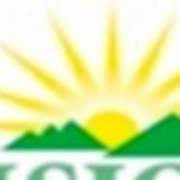
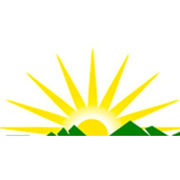
Apply Smita's feedback: combined impact numbers, Who we are and Fundraisers pages
- Home and newsletter totals now combine Kutumb and NIPUN, with the split shown
- 'Donation' instead of 'gift'; children join Kutumb at three
- New Who we are page (mission, story, board) and Fundraisers page
- Newsletter archive and fundraiser photos list themselves from public/
- New high-resolution logo and favicon; nav wraps to two rows on phones

Claude-Session: https://claude.ai/code/session_01BCyXnN6AfJUBevpe67KkuN

diff --git a/src/styles/global.css b/src/styles/global.css
@@ -40,13 +40,13 @@ p { margin: 0 0 14px; }
 .skip:focus { left: 12px; top: 12px; z-index: 50; background: var(--white); padding: 10px 14px; }
 
 /* Header */
-.top { position: sticky; top: 0; z-index: 20; background: var(--white); border-bottom: 1px solid var(--line); }
+.top { position: relative; z-index: 20; background: var(--white); border-bottom: 1px solid var(--line); }
 .top-in { display: flex; justify-content: space-between; align-items: center; padding-top: 10px; padding-bottom: 4px; }
 .logo { line-height: 0; }
-.logo img { height: 46px; width: auto; }
-.tabs { display: flex; gap: 2px; overflow-x: auto; scrollbar-width: none; }
-.tabs::-webkit-scrollbar { display: none; }
-.tab { font-size: 15px; color: var(--muted); padding: 10px 12px; min-height: 44px; display: inline-flex; align-items: center; white-space: nowrap; text-decoration: none; border-bottom: 3px solid transparent; }
+.logo img { height: 54px; width: auto; }
+/* On phones all six tabs wrap onto two rows so none are hidden off-screen. */
+.tabs { display: flex; flex-wrap: wrap; gap: 0 2px; }
+.tab { font-size: 15px; color: var(--muted); padding: 10px 10px; min-height: 44px; display: inline-flex; align-items: center; white-space: nowrap; text-decoration: none; border-bottom: 3px solid transparent; }
 .tab[aria-current='page'] { color: var(--forest); font-weight: 700; border-bottom-color: var(--leaf); }
 
 /* Buttons */
@@ -94,6 +94,7 @@ p { margin: 0 0 14px; }
 .stat { display: flex; flex-direction: column; padding: 16px 0; border-top: 2px solid var(--line); }
 .num { font-family: var(--display); font-size: 46px; line-height: 1; font-weight: 800; color: var(--leaf); letter-spacing: -0.02em; }
 .lbl { margin-top: 6px; }
+.src { margin-top: 2px; font-size: 14px; color: var(--muted); }
 .stats.compact .num { font-size: 36px; }
 
 /* Partner teasers on Home */
@@ -148,12 +149,14 @@ p { margin: 0 0 14px; }
 /* Footer */
 .foot { background: var(--forest); color: #E7F2EA; padding: 44px 0; font-size: 15px; }
 .foot a { color: #E7F2EA; }
-.foot img { height: 44px; width: auto; background: var(--white); padding: 6px; border-radius: 6px; margin-bottom: 8px; }
+.foot img { height: 64px; width: auto; background: var(--white); padding: 8px; border-radius: 8px; margin-bottom: 8px; }
 .foot p { margin: 8px 0; }
 .foot-grid { display: grid; gap: 18px; }
 
 @media (min-width: 900px) {
   body { font-size: 18px; }
+  .top { position: sticky; top: 0; }
+  .tabs { flex-wrap: nowrap; }
   .hero { padding: 40px 0 88px; }
   .hero h1 { font-size: 64px; }
   .hero-grid { grid-template-columns: 1.05fr 1fr; align-items: center; gap: 56px; }
@@ -179,3 +182,9 @@ p { margin: 0 0 14px; }
 @media (prefers-reduced-motion: reduce) {
   * { scroll-behavior: auto !important; transition: none !important; }
 }
+
+/* Fundraiser photo gallery */
+.gallery { display: grid; grid-template-columns: repeat(2, minmax(0, 1fr)); gap: 8px; margin-top: 24px; }
+.gallery img { width: 100%; aspect-ratio: 1; object-fit: cover; border-radius: 12px; }
+.links { flex-wrap: wrap; }
+@media (min-width: 900px) { .gallery { grid-template-columns: repeat(4, minmax(0, 1fr)); gap: 12px; } }

diff --git a/src/lib/files.ts b/src/lib/files.ts
@@ -1,0 +1,26 @@
+// Helpers that list files in /public at build time, so adding a newsletter PDF
+// or a fundraiser photo is just a matter of dropping the file in the right folder.
+import fs from 'node:fs';
+import path from 'node:path';
+
+const PUBLIC = path.resolve('public');
+
+/** Newsletter PDFs in public/newsletters, newest first. The year is read from the file name. */
+export function newsletters() {
+  const dir = path.join(PUBLIC, 'newsletters');
+  if (!fs.existsSync(dir)) return [];
+  return fs.readdirSync(dir)
+    .filter((f) => f.toLowerCase().endsWith('.pdf'))
+    .map((f) => ({ year: (f.match(/20\d\d/) || ['Undated'])[0], href: `/newsletters/${f}` }))
+    .sort((a, b) => b.year.localeCompare(a.year));
+}
+
+/** Photos in public/images/fundraisers/<folder>, sorted by file name. */
+export function photos(folder: string) {
+  const dir = path.join(PUBLIC, 'images', 'fundraisers', folder);
+  if (!fs.existsSync(dir)) return [];
+  return fs.readdirSync(dir)
+    .filter((f) => /\.(jpe?g|png|webp)$/i.test(f))
+    .sort()
+    .map((f) => `/images/fundraisers/${folder}/${f}`);
+}

diff --git a/src/data/site.ts b/src/data/site.ts
@@ -44,7 +44,19 @@ export const PARTNER_SITES = {
 
 export const NAV = [
   { href: '/', label: 'Home' },
+  { href: '/about/', label: 'Who we are' },
   { href: '/kutumb/', label: 'Kutumb' },
   { href: '/nipun/', label: 'NIPUN' },
   { href: '/newsletter/', label: 'Newsletter' },
+  { href: '/fundraisers/', label: 'Fundraisers' },
+];
+
+// Combined across both partners. Each note shows where the total comes from.
+export const IMPACT_2026: string[][] = [
+  ['638', 'children in preschool, school or college with our support', 'Kutumb 211, NIPUN 427'],
+  ['1,377', 'women and young people trained for work', 'Kutumb 716, NIPUN 661'],
+  ['471', 'trainees now earning a living', 'NIPUN 454, Kutumb 17'],
+  ['8,298', 'patients given free medical care', 'Clinic on Wheels 3,820, other Kutumb clinics 4,478'],
+  ['402', 'children given a hot meal every day', 'NIPUN'],
+  ['128', 'children moved into government schools', 'NIPUN'],
 ];
